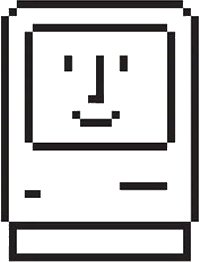
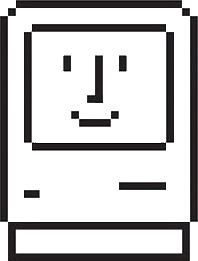
fix: 笑脸改用内联样式（48px 居中），不依赖外部 CSS

diff --git a/assets/style.css b/assets/style.css
@@ -276,24 +276,6 @@ a {
 .lead { color: var(--muted); line-height: 1.75; margin: 0 0 2.2rem; }
 
 /* ---------- 文章列表：一张张玻璃卡片 ---------- */
-/* ---------- 首页一言上方的麦金塔笑脸 ---------- */
-.happy-mac {
-  display: flex;
-  justify-content: center;
-  margin: 0 0 1.2rem;
-  line-height: 0;
-}
-.happy-mac img {
-  display: block;
-  width: 72px;
-  height: auto;
-  /* 像素图放大时保持硬边 */
-  image-rendering: pixelated;
-}
-@media (min-width: 620px) {
-  .happy-mac img { width: 80px; }
-}
-
 /* ---------- 首页正文里的导航按钮 ---------- */
 .home-nav {
   display: grid;

diff --git a/index.html b/index.html
@@ -25,8 +25,8 @@
   </header>
 
   <main>
-    <div class="happy-mac">
-      <img src="assets/mac-smile.png" alt="麦金塔笑脸" width="199" height="262">
+    <div style="text-align:center;margin:0 0 1.1rem">
+      <img src="assets/mac-smile.png" alt="麦金塔笑脸" style="width:48px;height:auto;display:inline-block;vertical-align:middle">
     </div>
 
     <h1 class="quote-title">一言</h1>
